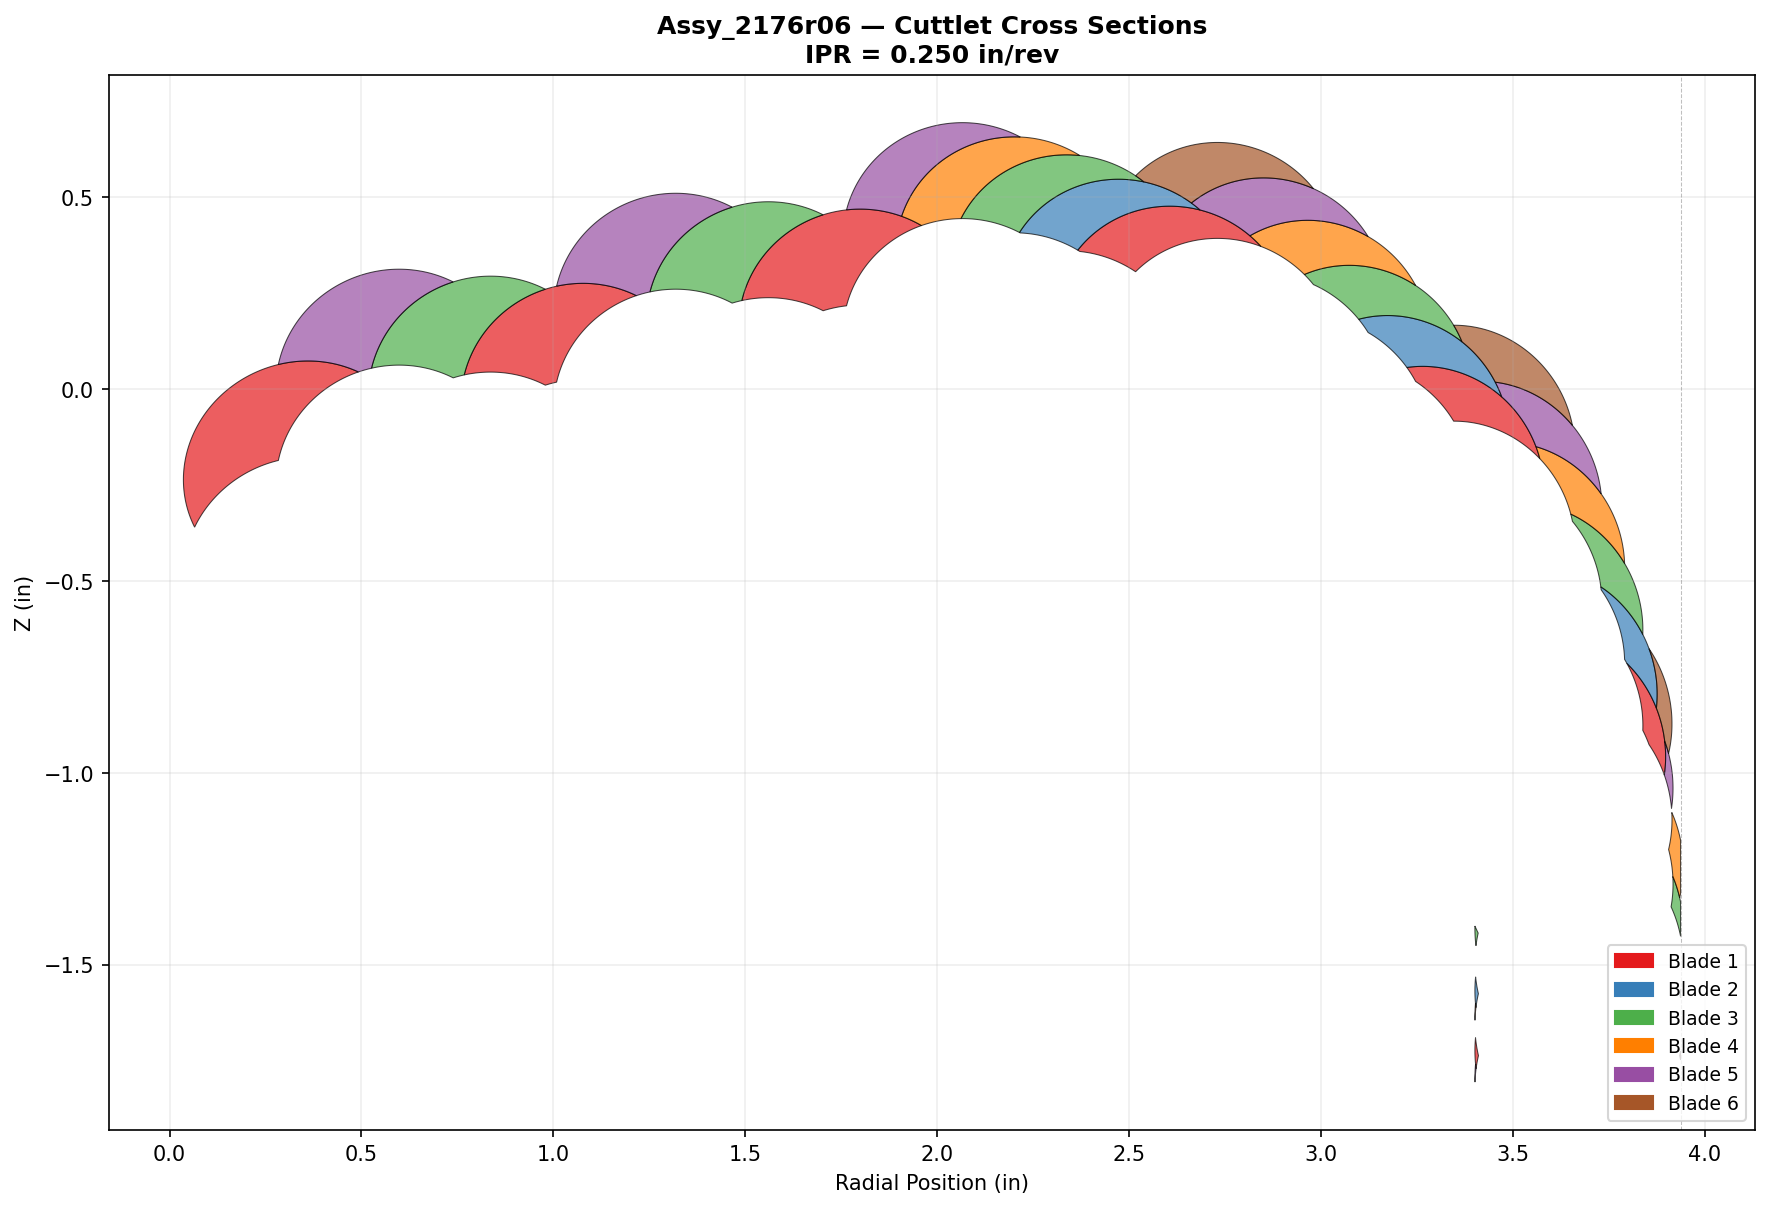
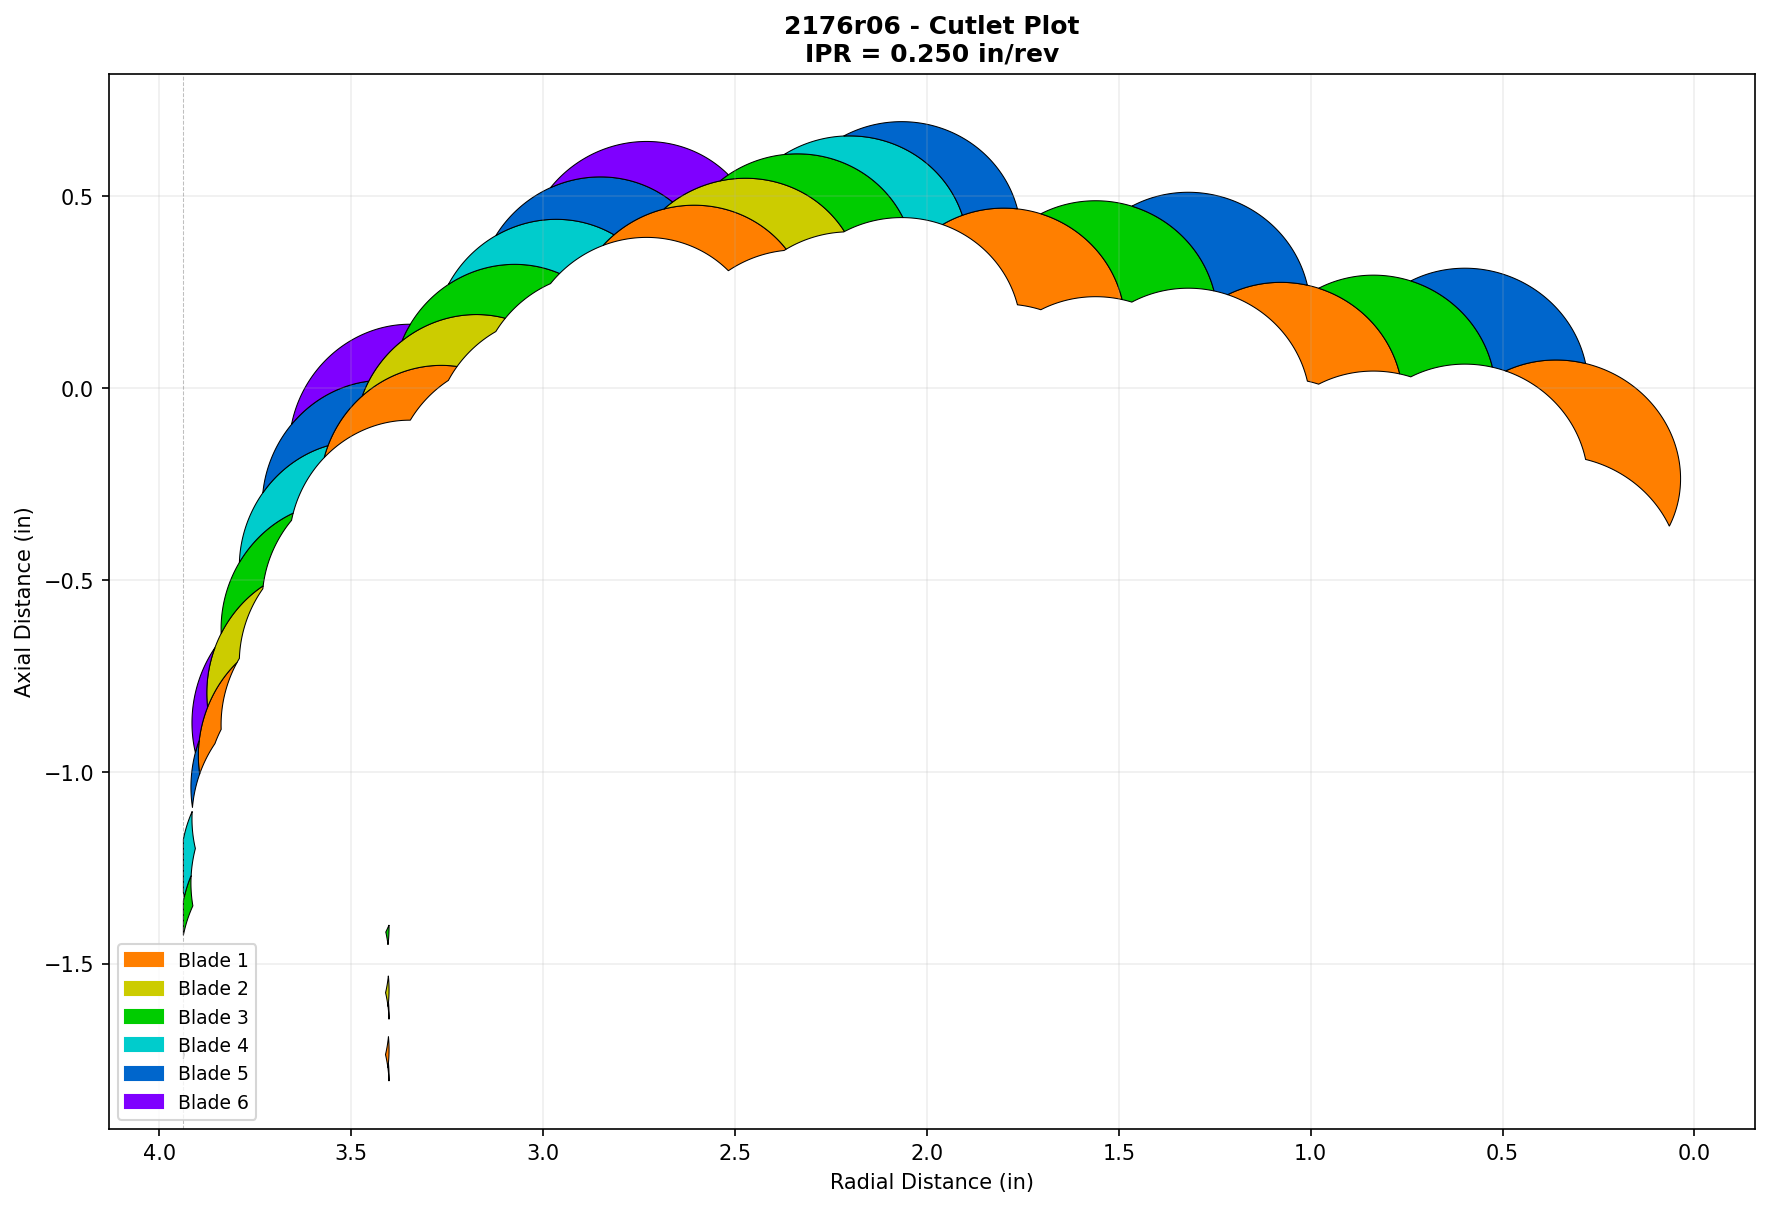
Update cutlet plot: mirror geometry, ME color mapping, axis/title labels
1. Mirror cutlets across Y axis with positive tick labels
2. Rename axes to Radial Distance / Axial Distance
3. Title format: "2176r06 - Cutlet Plot"
4. Blade colors match ME spreadsheet RGB mapping (primary + secondary)

https://claude.ai/code/session_01N8TFjZHRi9fPjGEUiAzPPF

diff --git a/skills/bb2_cuttlet_plots.py b/skills/bb2_cuttlet_plots.py
@@ -28,12 +28,28 @@ import matplotlib.pyplot as plt
 import matplotlib.patches as mpatches
 from shapely.geometry import box
 
-# Blade colors
-BLADE_COLORS = {
-    1: '#e41a1c', 2: '#377eb8', 3: '#4daf4a',
-    4: '#ff7f00', 5: '#984ea3', 6: '#a65628',
-    7: '#f781bf', 8: '#999999', 9: '#66c2a5',
+# Blade colors from ME color mapping (RGB)
+# Row 1 = primary (saturated), Row 2+ = secondary (lighter)
+BLADE_COLORS_PRIMARY = {
+    1: (255, 127, 0),   2: (204, 204, 0),   3: (0, 204, 0),
+    4: (0, 204, 204),   5: (0, 102, 204),   6: (127, 0, 255),
+    7: (204, 0, 204),   8: (204, 0, 0),     9: (127, 63, 0),
 }
+BLADE_COLORS_SECONDARY = {
+    1: (255, 188, 121), 2: (255, 255, 91),  3: (97, 255, 97),
+    4: (91, 255, 255),  5: (121, 188, 255), 6: (188, 121, 255),
+    7: (255, 91, 255),  8: (255, 97, 97),   9: (167, 103, 40),
+}
+
+def _rgb(r, g, b):
+    return (r / 255, g / 255, b / 255)
+
+def blade_color(blade, row):
+    if row == 1:
+        rgb = BLADE_COLORS_PRIMARY.get(blade, (51, 51, 51))
+    else:
+        rgb = BLADE_COLORS_SECONDARY.get(blade, (153, 153, 153))
+    return _rgb(*rgb)
 
 
 def get_blade_from_name(name):
@@ -108,22 +124,26 @@ def build_cutlet_polygons(cutters, ipr, gage_radius):
     return cutlet_polys
 
 
+def extract_assy_label(assy_name):
+    """Convert 'Assy_2176r06' to '2176r06' for plot title."""
+    return assy_name.replace("Assy_", "")
+
+
 def plot_cutlets(cutlet_polys, gage_radius, assy_name, ipr, output_path):
     """Plot all cutlet polygons colored by blade, save to output_path."""
     fig, ax = plt.subplots(1, 1, figsize=(12, 8))
 
     for name, cutlet in cutlet_polys:
-        blade = get_blade_from_name(name)
+        blade_num = get_blade_from_name(name)
         row = get_row_from_name(name)
-        color = BLADE_COLORS.get(blade, '#333333')
-        alpha = 0.7 if row == 1 else 0.35
+        color = blade_color(blade_num, row)
         edgecolor = 'black' if row == 1 else '#666666'
         linewidth = 0.5 if row == 1 else 0.3
 
-        def fill_poly(geom):
+        def fill_poly(geom, c=color, ec=edgecolor, lw=linewidth):
             xs, ys = geom.exterior.xy
-            ax.fill([-x for x in xs], ys, color=color, alpha=alpha,
-                    edgecolor=edgecolor, linewidth=linewidth)
+            # Plot at native negative-X positions (mirrored left of Y axis)
+            ax.fill(list(xs), ys, color=c, edgecolor=ec, linewidth=lw)
 
         if cutlet.geom_type == 'Polygon':
             fill_poly(cutlet)
@@ -131,17 +151,25 @@ def plot_cutlets(cutlet_polys, gage_radius, assy_name, ipr, output_path):
             for geom in cutlet.geoms:
                 fill_poly(geom)
 
-    ax.axvline(x=gage_radius, color='gray', linestyle='--', linewidth=0.5, alpha=0.5)
-    ax.set_title(f'{assy_name} — Cuttlet Cross Sections\nIPR = {ipr:.3f} in/rev', fontsize=12, fontweight='bold')
-    ax.set_xlabel('Radial Position (in)')
-    ax.set_ylabel('Z (in)')
+    # Gage line on the mirrored side
+    ax.axvline(x=-gage_radius, color='gray', linestyle='--', linewidth=0.5, alpha=0.5)
+
+    # Title: "2176r06 - Cutlet Plot"
+    label = extract_assy_label(assy_name)
+    ax.set_title(f'{label} - Cutlet Plot\nIPR = {ipr:.3f} in/rev', fontsize=12, fontweight='bold')
+    ax.set_xlabel('Radial Distance (in)')
+    ax.set_ylabel('Axial Distance (in)')
     ax.set_aspect('equal')
     ax.grid(True, alpha=0.2)
 
-    # Legend
+    # Make X tick labels show positive values even though geometry is negative
+    from matplotlib.ticker import FuncFormatter
+    ax.xaxis.set_major_formatter(FuncFormatter(lambda x, _: f'{abs(x):.1f}'))
+
+    # Legend with primary colors
     blades_present = sorted(set(get_blade_from_name(name) for name, _ in cutlet_polys))
-    handles = [mpatches.Patch(color=BLADE_COLORS.get(b, '#333'), label=f'Blade {b}') for b in blades_present]
-    ax.legend(handles=handles, loc='lower right', fontsize=9)
+    handles = [mpatches.Patch(color=blade_color(b, 1), label=f'Blade {b}') for b in blades_present]
+    ax.legend(handles=handles, loc='lower left', fontsize=9)
 
     plt.tight_layout()
     plt.savefig(output_path, dpi=150, bbox_inches='tight')
